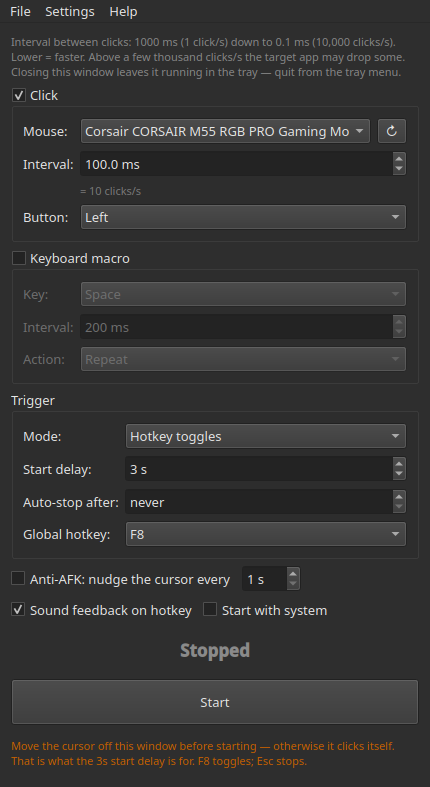
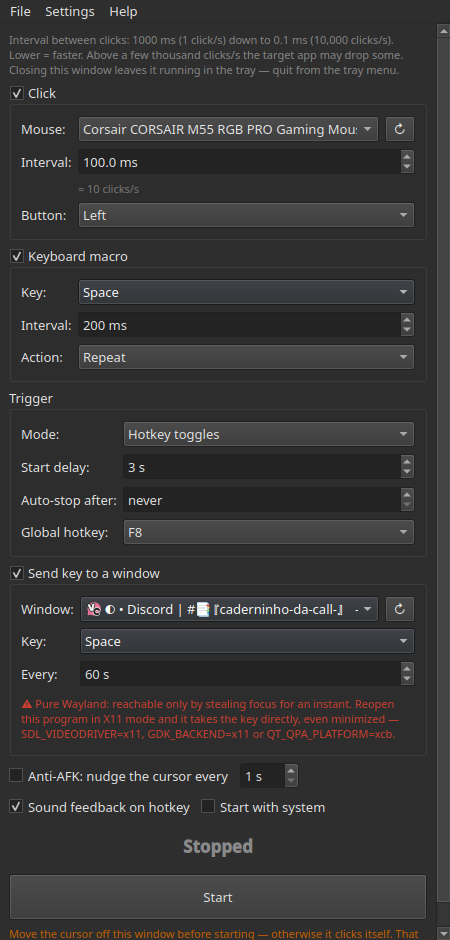
docs: per-window key injection, in both languages
New section in both READMEs explaining the ⌨ / ◐ split, the measurements, and
how to reopen a Wayland-only program as an X11 client so the key can be
addressed to it. Screenshots regenerated with the new group.

Changed region(s): [[0.0, 0.0, 1.0, 1.0]]

diff --git a/README.pt-BR.md b/README.pt-BR.md
@@ -19,6 +19,8 @@ compositor e sem nada rodando como root.
 - **Atalho global** que funciona mesmo com a janela fora de foco
 - **Modo segurar** — só clica enquanto você segura o botão do mouse
 - **Macro de teclado** — 122 teclas, repetindo ou segurando
+- **Mandar tecla para uma janela** — escolha uma janela aberta e alimente ela
+  com uma tecla; em alvo X11 chega sem mexer no foco, mesmo minimizada
 - **Anti-AFK** — mexe o ponteiro e devolve, com deriva zero
 - **Ícone na bandeja**, iniciar com o sistema, tema claro/escuro, inglês e
   português
@@ -109,9 +111,10 @@ wayclick --tray     # começa escondido na bandeja
 wayclick --version
 ```
 
-A janela tem três caixas. **Clique** e **Macro de teclado** são o que roda, e as
-duas são ativáveis — habilite uma, a outra, ou as duas. **Acionamento** é como
-liga e desliga. O Anti-AFK fica por fora, independente do Iniciar/Parar.
+A janela tem quatro caixas ativáveis. **Clique**, **Macro de teclado** e
+**Mandar tecla para uma janela** são o que roda — habilite qualquer combinação.
+**Acionamento** é como liga e desliga. O Anti-AFK fica por fora, independente do
+Iniciar/Parar.
 
 O resto está na barra de menus: **Arquivo** inicia, para, esconde na bandeja e
 sai; **Configurações** tem **Tema** (Sistema, Escuro, Claro) e **Idioma**
@@ -168,6 +171,38 @@ Funciona de qualquer janela. `Esc` sempre para, com a janela em foco.
 **Som ao acionar** — um bipe agudo ao ligar e grave ao desligar, para você saber
 que o atalho pegou sem precisar olhar.
 
+### Mandar tecla para uma janela
+
+Escolha uma das suas janelas abertas e o WayClick alimenta ela com uma tecla no
+intervalo definido — espaço num jogo a cada 60 s, por exemplo, enquanto você
+continua trabalhando. A lista mostra cada janela aberta com o ícone real do
+programa e uma marca de como a tecla vai chegar:
+
+| | |
+|---|---|
+| **⌨** | Janela X11 (Xwayland). A tecla é endereçada àquela janela: seu foco nunca é tocado, e funciona **mesmo minimizada**. |
+| **◐** | Janela Wayland pura. Não há como endereçar, então o WayClick dá foco a ela por ~40 ms, manda a tecla e devolve o foco. |
+
+Medido contra um alvo X11 em processo próprio, com o foco parado em outra janela
+o tempo todo: 3 de 3 entregues sem foco, mais 6 com a janela minimizada, 0
+vazaram para a janela em foco.
+
+Se a janela escolhida for Wayland pura, o grupo mostra um aviso vermelho. A saída
+é reabrir aquele programa como cliente X11, o que normalmente é uma variável de
+ambiente:
+
+```bash
+SDL_VIDEODRIVER=x11 ./jogo          # SDL (a maioria dos jogos)
+GDK_BACKEND=x11 ./app               # GTK
+QT_QPA_PLATFORM=xcb ./app           # Qt
+flatpak run --env=SDL_VIDEODRIVER=x11 org.exemplo.App
+```
+
+Aí ele passa a aparecer como ⌨ e recebe a tecla direto. Dois poréns honestos:
+programa que lê input raw pode ignorar evento sintético do X11, e isto vale só
+para teclado — clique segue o cursor, não o foco, então mirar clique numa janela
+exigiria teleportar seu ponteiro.
+
 ### Anti-AFK
 
 Mexe o ponteiro alguns pixels e devolve para onde estava, a cada N segundos. É
@@ -206,6 +241,14 @@ sub-milissegundo.
 **Atalho global** — lê `/dev/input/event*` direto, único jeito de enxergar
 teclas que não estão indo para a sua janela. Teclados criados por remapeadores
 (keyd, kmonad, input-remapper) valem como fonte.
+
+**Tecla por janela** — o Wayland entrega input para quem tem foco e não oferece
+como endereçar uma surface; o `fake_input` do KWin, único protocolo de injeção
+que ele implementa, também não tem argumento de surface. O X11 é o oposto: o
+`XSendEvent` carrega a janela de destino e o cliente processa mesmo sem foco e
+sem estar mapeado — por isso o caminho ⌨ funciona e o ◐ precisa pedir foco
+emprestado. O WayClick lê a lista de janelas pelo scripting do KWin (única coisa
+que enxerga janela Wayland) e os ids X11 direto do `_NET_CLIENT_LIST` via libX11.
 
 **Modo segurar** — esse precisa de um truque. O compositor agrega o estado dos
 botões por *seat*, então enquanto o botão físico está pressionado ele
@@ -258,6 +301,9 @@ sg input -c "python3 tests/t_multimouse.py"  # vários mouses, cada um clonado c
 python3 tests/t_fast.py 0.1                  # cliques emitidos x entregues a 10.000/s
 python3 tests/t_keymacro.py                  # teclas entregues, e nunca deixadas presas
 python3 tests/t_antiafk.py                   # amplitude do nudge na tela e deriva ao longo do tempo
+sg input -c "python3 tests/t_xinject.py"     # tecla numa janela X11, sem foco e depois minimizada
+sg input -c "python3 tests/t_target.py"      # o mesmo para alvo Wayland, pelo caminho do foco
+sg input -c "python3 tests/t_holdtime.py"    # duração da tecla, medida como um jogo consulta
 ```
 
 Eles abrem uma janela em tela cheia para contar o que realmente chega, então a

diff --git a/README.md b/README.md
@@ -19,6 +19,8 @@ running as root.
 - **Global hotkey** that works even when the window is not focused
 - **Hold mode** — clicks only while you physically hold the mouse button
 - **Keyboard macro** — 122 keys, repeat or hold
+- **Send key to a window** — pick an open window and feed it a key; for X11
+  targets it arrives with no focus change, even minimized
 - **Anti-AFK** — nudges the pointer and puts it back, with zero drift
 - **Tray icon**, autostart, dark/light themes, English and Portuguese
 
@@ -108,8 +110,8 @@ wayclick --tray     # start hidden in the system tray
 wayclick --version
 ```
 
-The window has three boxes. **Click** and **Keyboard macro** are what runs, and
-both are checkable — enable one, the other, or both. **Trigger** is how it
+The window has four checkable boxes. **Click**, **Keyboard macro** and **Send
+key to a window** are what runs — enable any combination. **Trigger** is how it
 starts and stops. Anti-AFK sits on its own, outside Start/Stop.
 
 The menu bar has the rest: **File** starts, stops, hides to tray and quits;
@@ -165,6 +167,38 @@ any window. `Esc` always stops when the window is focused.
 **Sound feedback** — a short high beep when it starts, low when it stops, so you
 know the hotkey registered without looking.
 
+### Send key to a window
+
+Pick one of your open windows and WayClick feeds it a key on an interval —
+Space into a game every 60 s, for instance, while you keep working. The list
+shows every open window with its real icon and a marker for how the key will
+get there:
+
+| | |
+|---|---|
+| **⌨** | X11 window (Xwayland). The key is addressed to that window: your focus is never touched, and it works **even minimized**. |
+| **◐** | Pure Wayland window. There is no way to address it, so WayClick focuses it for ~40 ms, sends the key and hands focus back. |
+
+Measured against an X11 target running in its own process, with focus parked on
+another window the whole time: 3 of 3 delivered while unfocused, 6 more while
+minimized, 0 leaked into the focused window.
+
+If the window you picked is pure Wayland, the group shows a red notice. The way
+out is to reopen that program as an X11 client, which usually takes one
+environment variable:
+
+```bash
+SDL_VIDEODRIVER=x11 ./game          # SDL (most games)
+GDK_BACKEND=x11 ./app               # GTK
+QT_QPA_PLATFORM=xcb ./app           # Qt
+flatpak run --env=SDL_VIDEODRIVER=x11 org.example.App
+```
+
+Then it shows up as ⌨ and takes the key directly. Two honest caveats: an app
+that reads raw input may ignore synthetic X11 events, and this is keyboard
+only — clicks follow the cursor rather than focus, so aiming them at a window
+would mean warping your pointer.
+
 ### Anti-AFK
 
 Nudges the pointer a few pixels and puts it right back, every N seconds. It is
@@ -202,6 +236,15 @@ granularity alone cannot hit sub-millisecond timing.
 **Global hotkey** — reads `/dev/input/event*` directly, the only way to see keys
 that are not focused on your window. Keyboards created by remappers (keyd,
 kmonad, input-remapper) count as valid sources.
+
+**Per-window key** — Wayland gives input to whoever has focus and offers no way
+to address a surface; KWin's `fake_input`, the only injection protocol it
+implements, has no surface argument either. X11 is the opposite: `XSendEvent`
+carries a destination window and the client handles it while unfocused and
+unmapped, which is why the ⌨ path works and the ◐ one has to borrow focus.
+WayClick reads the window list from KWin scripting (the only thing that sees
+Wayland windows) and the X11 ids straight from `_NET_CLIENT_LIST` through
+libX11.
 
 **Hold mode** — this one needs a trick. The compositor tracks button state per
 *seat*, so while your physical button is held it **discards every click you
@@ -251,6 +294,9 @@ sg input -c "python3 tests/t_multimouse.py"  # several mice, each cloned with it
 python3 tests/t_fast.py 0.1                  # emitted vs. delivered clicks at 10,000/s
 python3 tests/t_keymacro.py                  # keys delivered, and never left stuck
 python3 tests/t_antiafk.py                   # nudge amplitude on screen and drift over time
+sg input -c "python3 tests/t_xinject.py"     # key into an X11 window, unfocused then minimized
+sg input -c "python3 tests/t_target.py"      # same for a Wayland target, through the focus path
+sg input -c "python3 tests/t_holdtime.py"    # press duration, measured the way a game polls it
 ```
 
 They open a fullscreen window to count what actually arrives, so expect the
